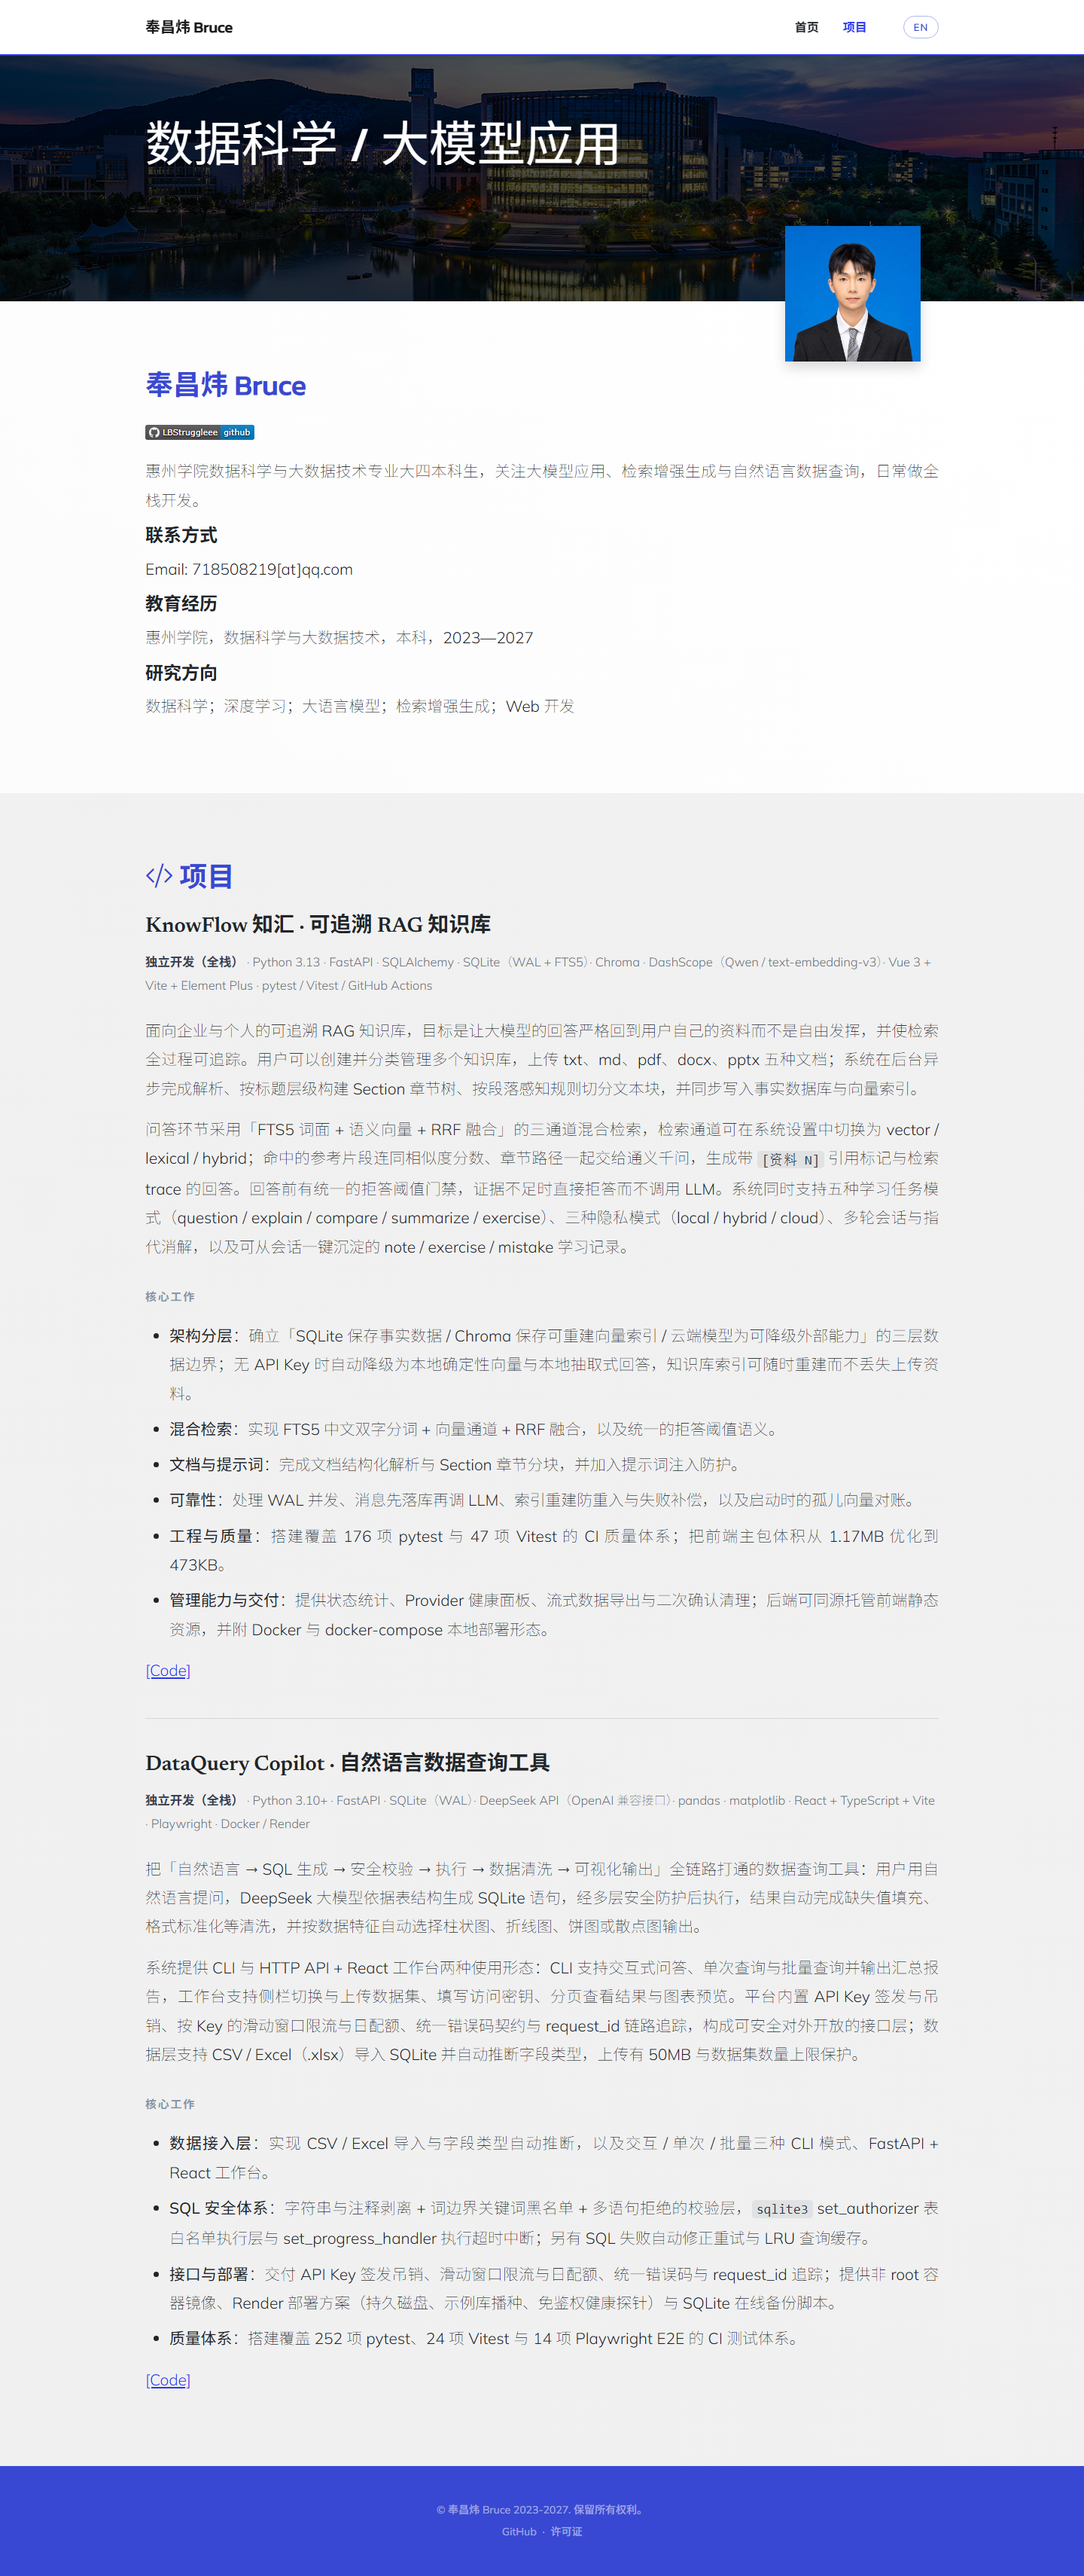
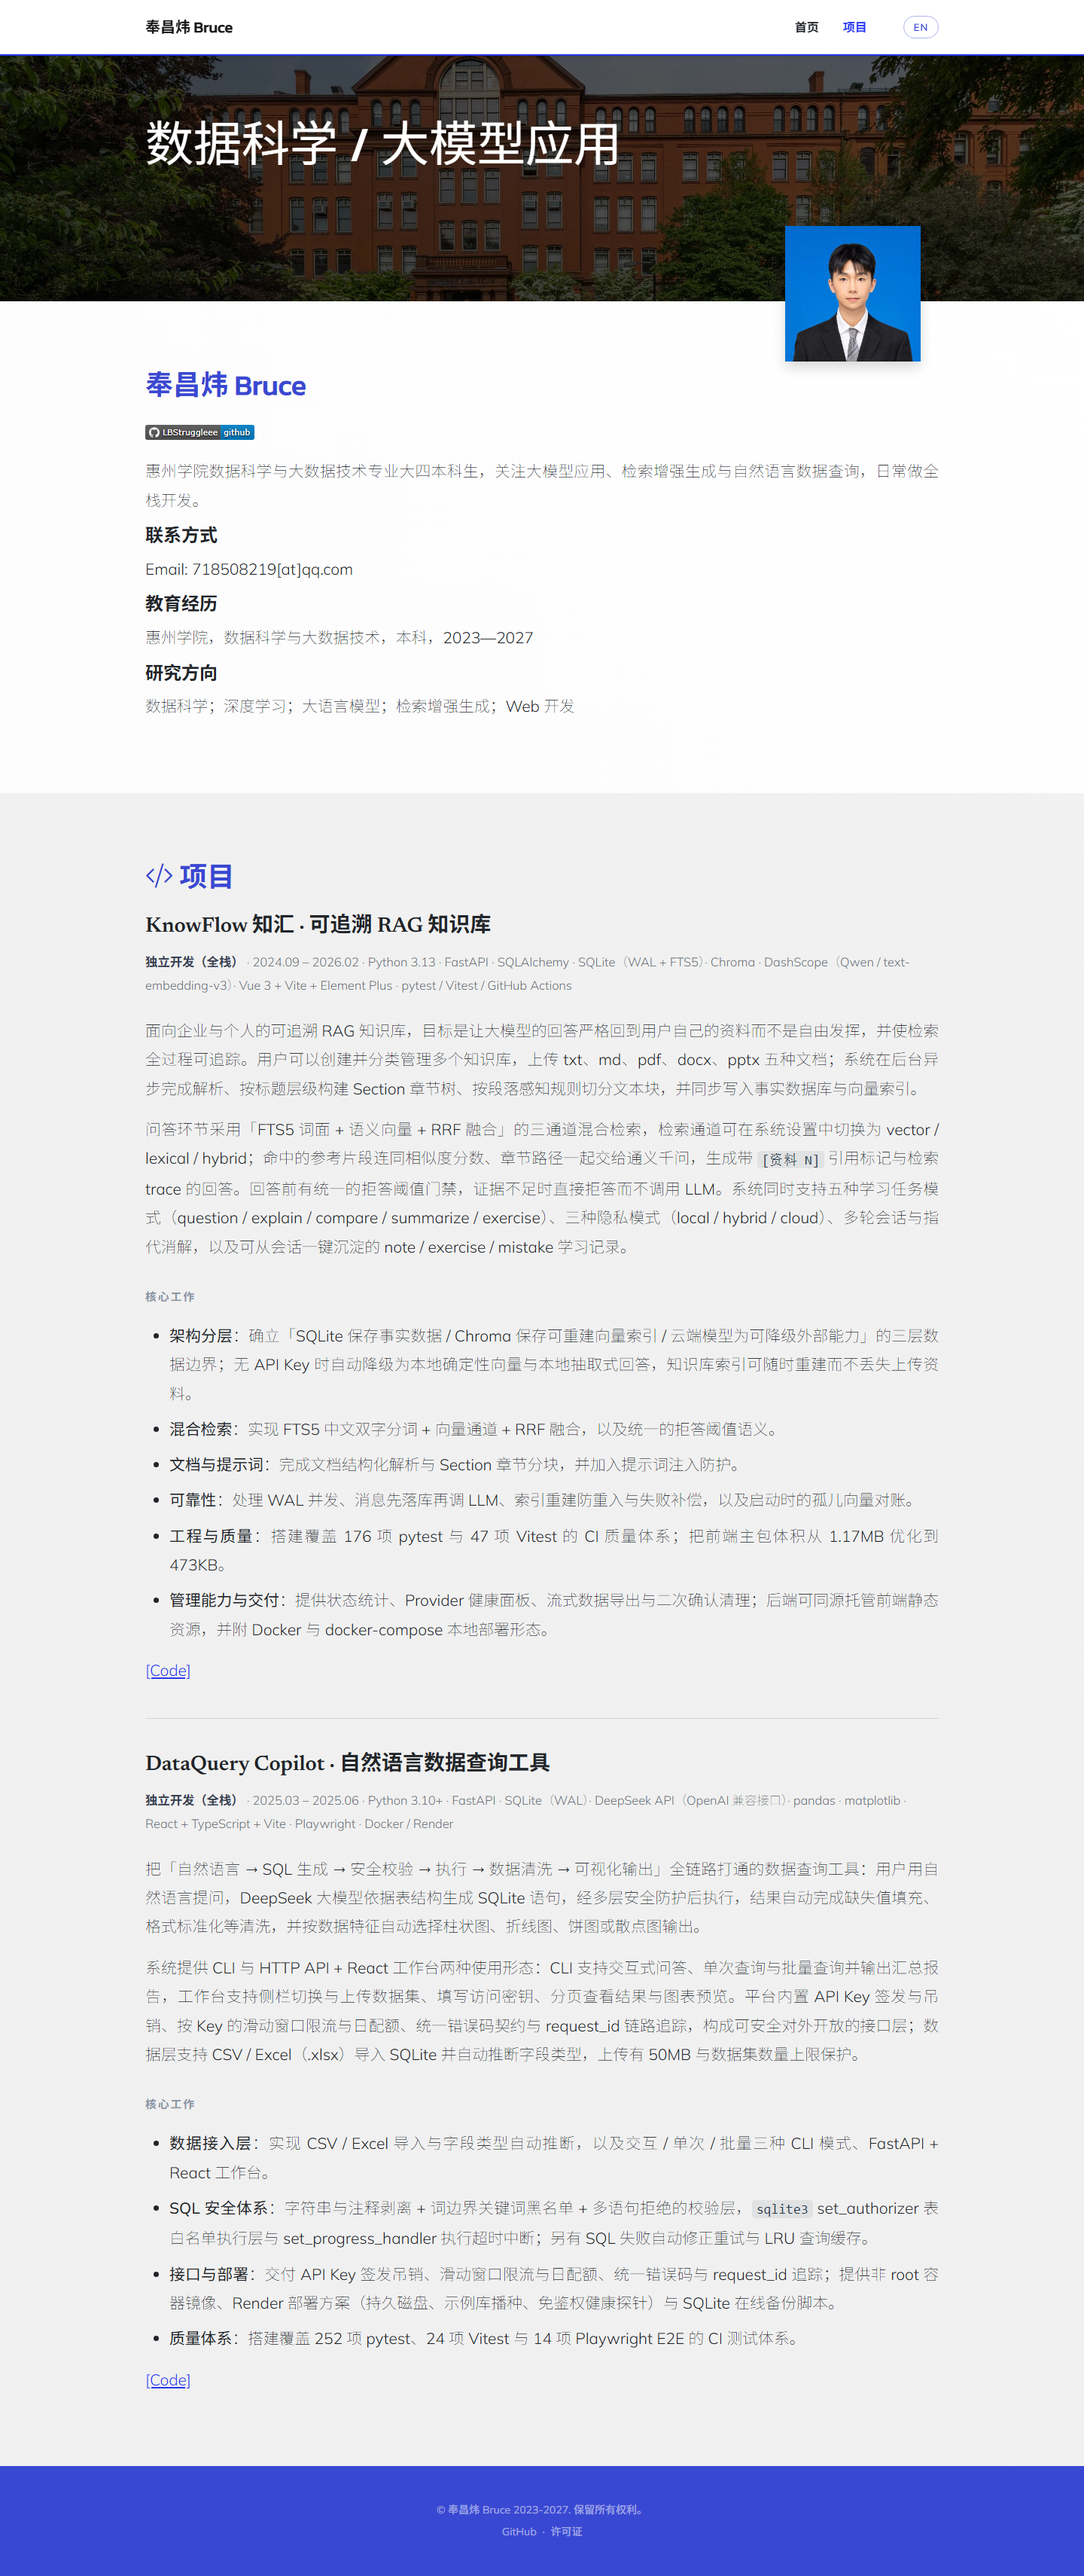
add project timeframes

diff --git a/contents/projects.en.md b/contents/projects.en.md
@@ -1,6 +1,6 @@
 ### KnowFlow · Traceable RAG Knowledge Base
 
-<p class="project-meta"><strong>Solo developer (full-stack)</strong> · Python 3.13 · FastAPI · SQLAlchemy · SQLite (WAL + FTS5) · Chroma · DashScope (Qwen / text-embedding-v3) · Vue 3 + Vite + Element Plus · pytest / Vitest / GitHub Actions</p>
+<p class="project-meta"><strong>Solo developer (full-stack)</strong> · 2024.09 – 2026.02 · Python 3.13 · FastAPI · SQLAlchemy · SQLite (WAL + FTS5) · Chroma · DashScope (Qwen / text-embedding-v3) · Vue 3 + Vite + Element Plus · pytest / Vitest / GitHub Actions</p>
 
 A traceable RAG knowledge base for teams and individuals that keeps model answers grounded in the user's own documents instead of letting them improvise, and makes the whole retrieval process auditable. Users can create and organise multiple knowledge bases and upload txt, md, pdf, docx and pptx files; the system parses each document asynchronously, builds a Section tree from heading levels, splits text into paragraph-aware chunks, and writes them to both the fact database and the vector index.
 
@@ -21,7 +21,7 @@ Retrieval combines three channels — FTS5 lexical search, semantic vectors and 
 
 ### DataQuery Copilot · Natural-Language Data Querying
 
-<p class="project-meta"><strong>Solo developer (full-stack)</strong> · Python 3.10+ · FastAPI · SQLite (WAL) · DeepSeek API (OpenAI-compatible) · pandas · matplotlib · React + TypeScript + Vite · Playwright · Docker / Render</p>
+<p class="project-meta"><strong>Solo developer (full-stack)</strong> · 2025.03 – 2025.06 · Python 3.10+ · FastAPI · SQLite (WAL) · DeepSeek API (OpenAI-compatible) · pandas · matplotlib · React + TypeScript + Vite · Playwright · Docker / Render</p>
 
 A data-querying tool that connects the full pipeline — natural language → SQL generation → safety validation → execution → data cleaning → visual output. Users ask questions in natural language, DeepSeek generates SQLite statements from the schema, the query passes layered safety checks before execution, results are cleaned (missing-value filling, format normalisation) and visualised as bar, line, pie or scatter charts chosen from the shape of the data.
 

diff --git a/contents/projects.md b/contents/projects.md
@@ -1,6 +1,6 @@
 ### KnowFlow 知汇 · 可追溯 RAG 知识库
 
-<p class="project-meta"><strong>独立开发（全栈）</strong> · Python 3.13 · FastAPI · SQLAlchemy · SQLite（WAL + FTS5）· Chroma · DashScope（Qwen / text-embedding-v3）· Vue 3 + Vite + Element Plus · pytest / Vitest / GitHub Actions</p>
+<p class="project-meta"><strong>独立开发（全栈）</strong> · 2024.09 – 2026.02 · Python 3.13 · FastAPI · SQLAlchemy · SQLite（WAL + FTS5）· Chroma · DashScope（Qwen / text-embedding-v3）· Vue 3 + Vite + Element Plus · pytest / Vitest / GitHub Actions</p>
 
 面向企业与个人的可追溯 RAG 知识库，目标是让大模型的回答严格回到用户自己的资料而不是自由发挥，并使检索全过程可追踪。用户可以创建并分类管理多个知识库，上传 txt、md、pdf、docx、pptx 五种文档；系统在后台异步完成解析、按标题层级构建 Section 章节树、按段落感知规则切分文本块，并同步写入事实数据库与向量索引。
 
@@ -21,7 +21,7 @@
 
 ### DataQuery Copilot · 自然语言数据查询工具
 
-<p class="project-meta"><strong>独立开发（全栈）</strong> · Python 3.10+ · FastAPI · SQLite（WAL）· DeepSeek API（OpenAI 兼容接口）· pandas · matplotlib · React + TypeScript + Vite · Playwright · Docker / Render</p>
+<p class="project-meta"><strong>独立开发（全栈）</strong> · 2025.03 – 2025.06 · Python 3.10+ · FastAPI · SQLite（WAL）· DeepSeek API（OpenAI 兼容接口）· pandas · matplotlib · React + TypeScript + Vite · Playwright · Docker / Render</p>
 
 把「自然语言 → SQL 生成 → 安全校验 → 执行 → 数据清洗 → 可视化输出」全链路打通的数据查询工具：用户用自然语言提问，DeepSeek 大模型依据表结构生成 SQLite 语句，经多层安全防护后执行，结果自动完成缺失值填充、格式标准化等清洗，并按数据特征自动选择柱状图、折线图、饼图或散点图输出。
 

diff --git a/README.md b/README.md
@@ -17,8 +17,8 @@
 
 ## Projects
 
-- **KnowFlow 知汇** — 面向企业与个人的可追溯 RAG 知识库，采用 FTS5 + 向量 + RRF 三通道混合检索，回答带引用标记与检索 trace，支持本地降级与索引重建。技术栈为 Python 3.13 + FastAPI + Chroma + Qwen + Vue 3。
-- **DataQuery Copilot** — 基于 LLM 的自然语言数据查询工具，打通自然语言 → SQL → 安全校验 → 执行 → 清洗 → 可视化全链路。技术栈为 Python + FastAPI + DeepSeek API + React + TypeScript。
+- **KnowFlow 知汇**（2024.09–2026.02） — 面向企业与个人的可追溯 RAG 知识库，采用 FTS5 + 向量 + RRF 三通道混合检索，回答带引用标记与检索 trace，支持本地降级与索引重建。技术栈为 Python 3.13 + FastAPI + Chroma + Qwen + Vue 3。
+- **DataQuery Copilot**（2025.03–2025.06） — 基于 LLM 的自然语言数据查询工具，打通自然语言 → SQL → 安全校验 → 执行 → 清洗 → 可视化全链路。技术栈为 Python + FastAPI + DeepSeek API + React + TypeScript。
 
 ## Contact
 
